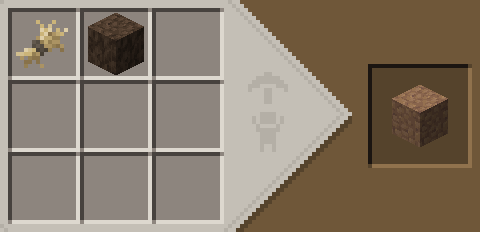
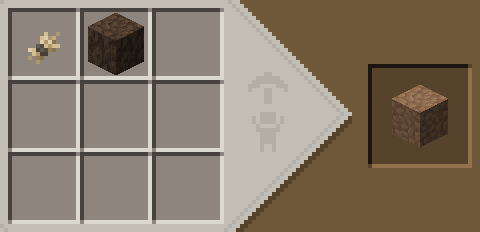
Update docs for v1.03

Changed region(s): [[0.0312, 0.0905, 0.1562, 0.3017]]

diff --git a/doc/doc.md b/doc/doc.md
@@ -26,11 +26,10 @@ Early-game progression has been changed substantially. Here's a brief guide.
 - Either craft tinder, or find gravel and craft a firestarter with flint.<br/>![2 stick + short grass](img2a.png)<br/>![2 flint](img2b.png)
 - Make a campfire by placing kindling and lighting it with tinder or a firestarter.
 - Dry short grass using the campfire.
-- Craft short dry grass into tall dry grass.<br/>![2 short dry grass](img3.png)
-- Craft tall dry grass into packed mud and mud bricks.<br/>![tall dry grass + dirt](img4.png)
-- Craft a mud kiln.<br/>![tall dry grass + dirt](img5.png)
+- Craft short dry grass into packed mud and mud bricks.<br/>![short dry grass + dirt](img4.png)
+- Craft a mud kiln.<br/>![2 packed mud + 4 mud bricks + kindling](img5.png)
 - Use your mud kiln to smelt copper ore, or smelt cobblestone into limestone and smooth stone.
-- Use smooth stone and stone bricks to craft a blast furnace, which can smelt the remaining metals.<br/>![tall dry grass + dirt](img6.png)
+- Use smooth stone and stone bricks to craft a blast furnace, which can smelt the remaining metals.<br/>![2 smooth stone + 4 stone bricks + kindling](img6.png)
 
 ## Furnaces
 
@@ -90,11 +89,11 @@ Recipes have also been added to alloy recycling of tools. Iron, copper, gold, an
 | Bronze   | Copper     | 7 copper + 1 silver + 1 gold |
 | Shakudo  | Copper     | 7 copper + 3 gold            |
 | Electrum | Diamond    | 4 silver + 4 gold            |
-| Steel    | Iron       | 1 iron (note 1)              |
+| Steel    | Iron       | 4 iron + coal block (note 1) |
 | Adamant  | Diamond    | 4 adamant scrap + 4 gold     |
 
 Notes:
-1. Steel is made by blasting iron. It takes 160 seconds to perform this recipe, instead of the normal 10 seconds. This is equivalent to the duration of 2 pieces of coal.
+1. This produces 4 carbon-rich iron, and each carbon-rich iron can be blasted to get steel.
 
 ### Stats Reference
 
